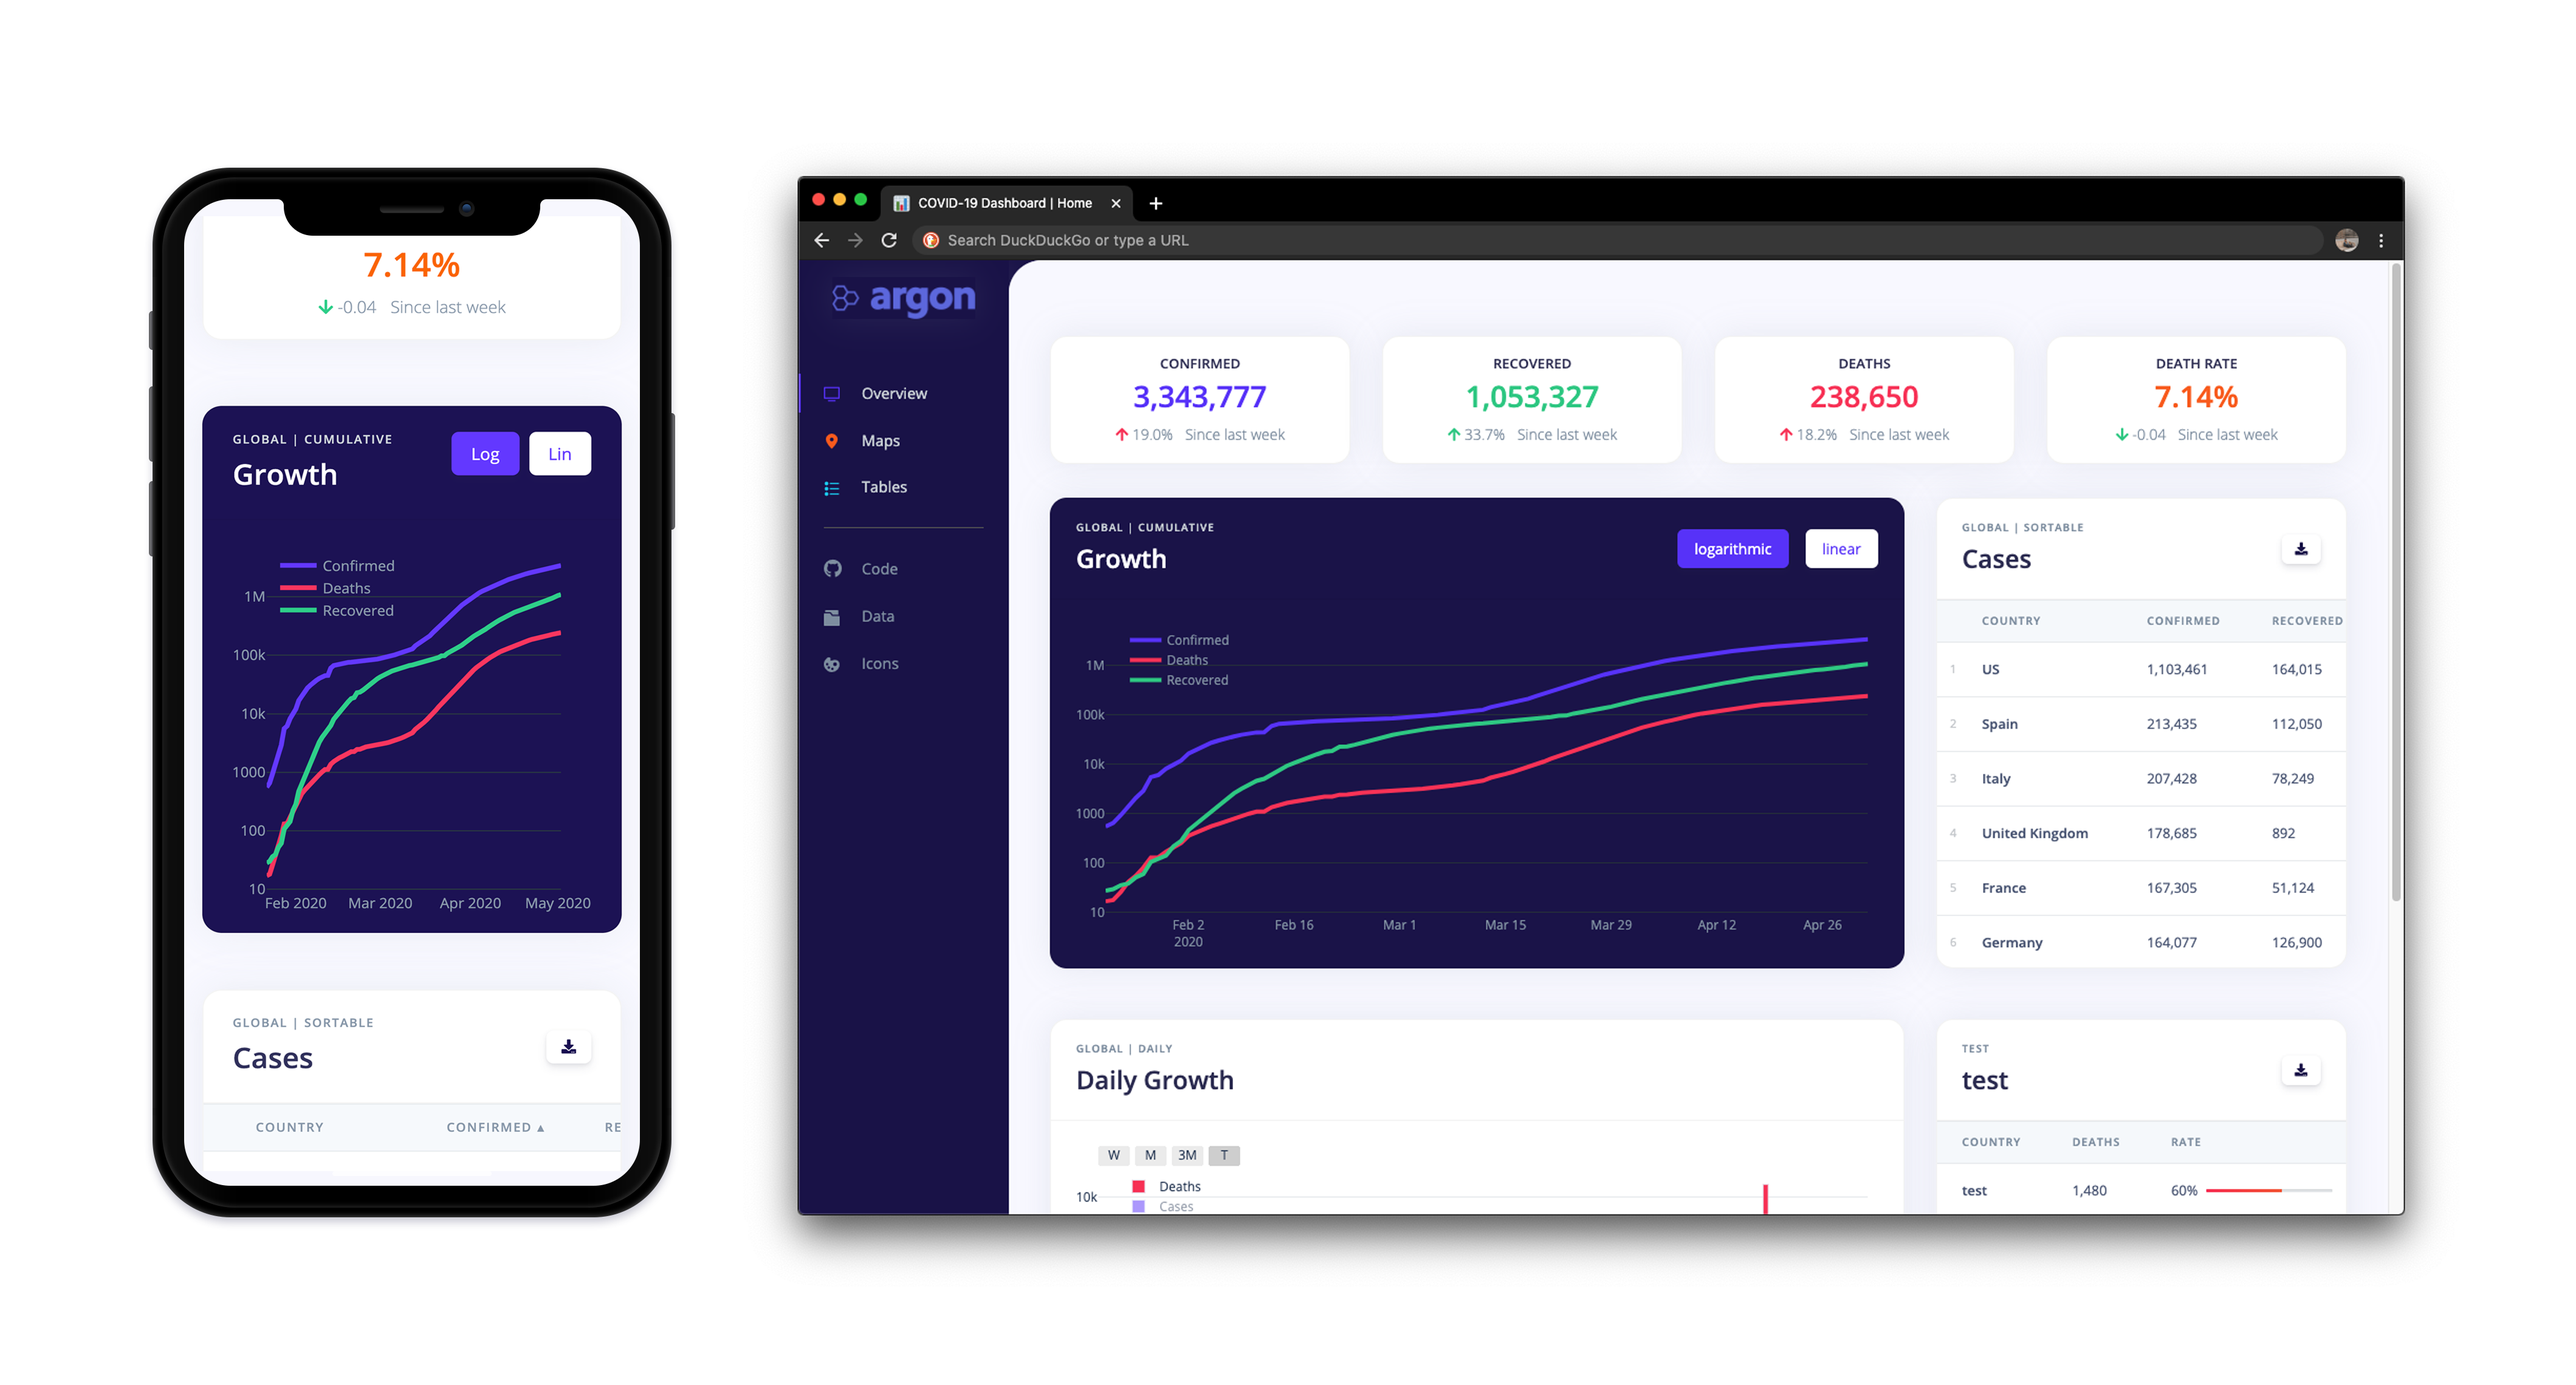
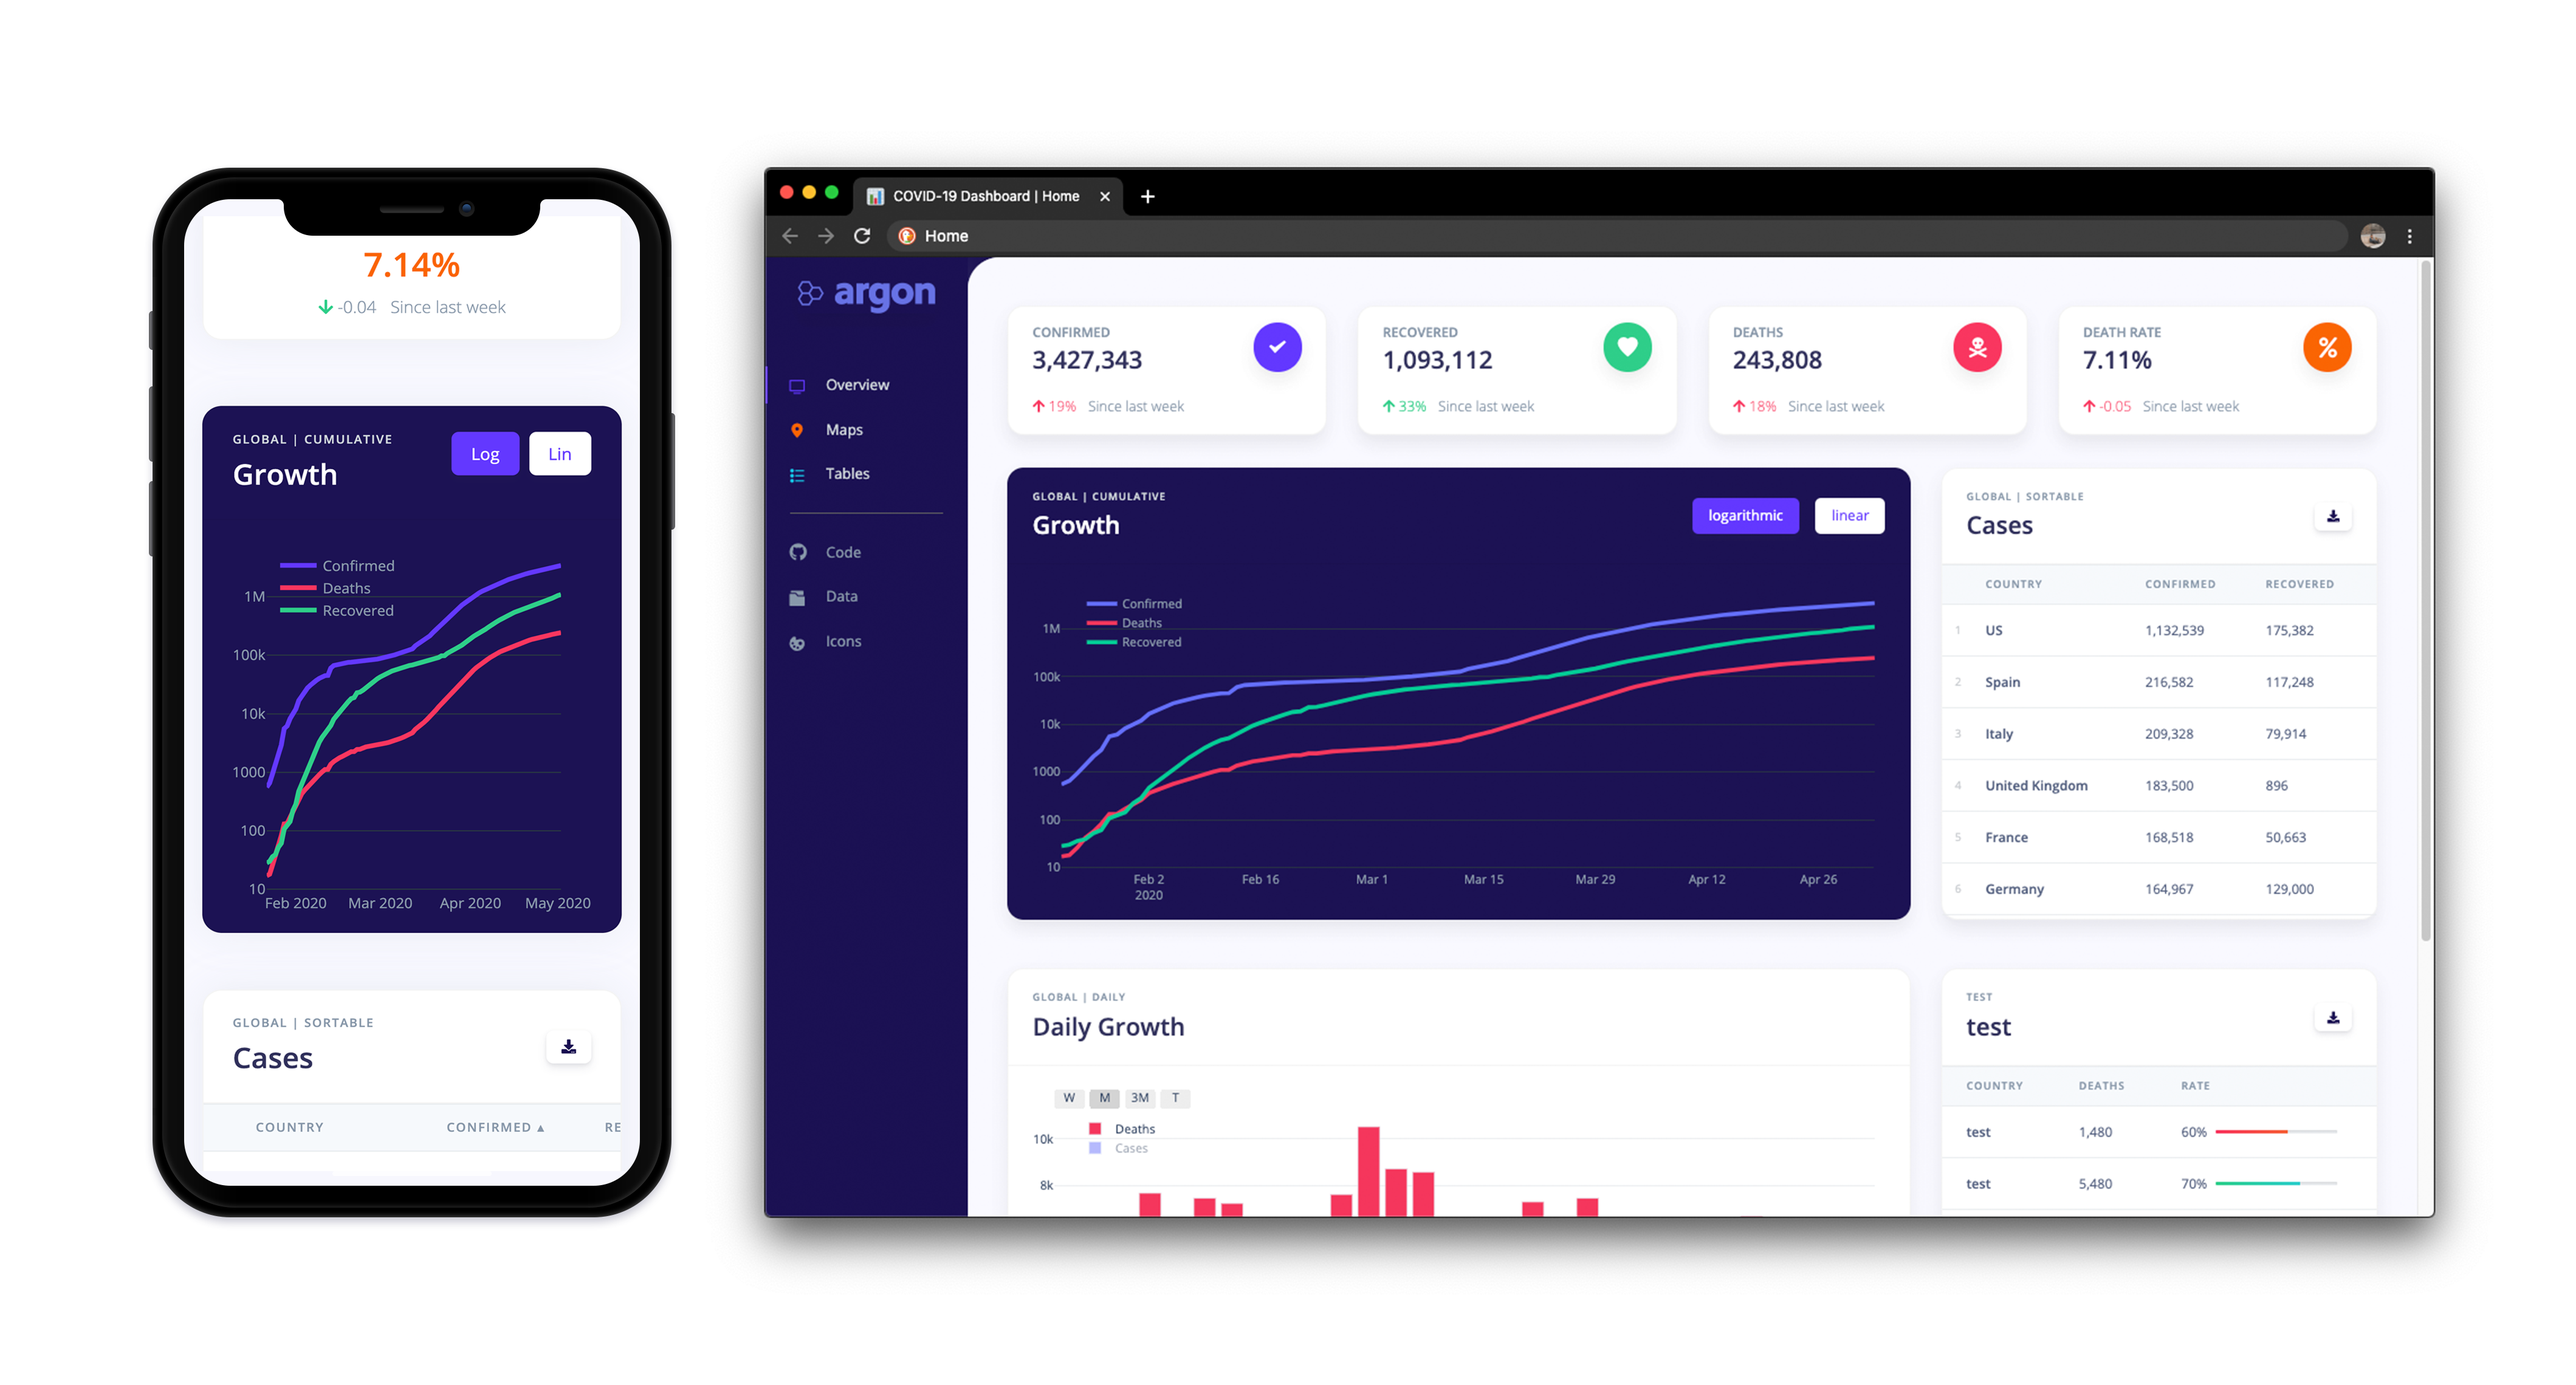
updated mockup image, modified trends numbers with Django filters

diff --git a/core/templates/includes/header.html b/core/templates/includes/header.html
@@ -21,7 +21,7 @@
                     </div>
                 </div>
                 <p class="mt-3 mb-0 text-muted text-sm">
-                    <span class="text-danger mr-2"><i class="fa fa-arrow-up"></i> {{ confirmed_trend }}%</span>
+                    <span class="text-danger mr-2"><i class="fa fa-arrow-up"></i> {{ confirmed_trend | floatformat:"0" }}%</span>
                     <span class="text-nowrap">Since last week</span>
                 </p>
                 </div>
@@ -42,7 +42,7 @@
                     </div>
                 </div>
                 <p class="mt-3 mb-0 text-muted text-sm">
-                    <span class="text-success mr-2"><i class="fas fa-arrow-up"></i> {{ recovered_trend }}%</span>
+                    <span class="text-success mr-2"><i class="fas fa-arrow-up"></i> {{ recovered_trend | floatformat:"0" }}%</span>
                     <span class="text-nowrap">Since last week</span>
                 </p>
                 </div>
@@ -63,7 +63,7 @@
                     </div>
                 </div>
                 <p class="mt-3 mb-0 text-muted text-sm">
-                    <span class="text-danger mr-2"><i class="fas fa-arrow-up"></i> {{ deaths_trend }}%</span>
+                    <span class="text-danger mr-2"><i class="fas fa-arrow-up"></i> {{ deaths_trend | floatformat:"0" }}%</span>
                     <span class="text-nowrap">Since last week</span>
                 </p>
                 </div>

diff --git a/processdata/plots.py b/processdata/plots.py
@@ -21,7 +21,7 @@ def total_growth():
 
     return plot_div
     
-    
+
 def daily_growth():
     dcases = getdata.daily_cases()[['date', 'World']]
     ddeaths = getdata.daily_deaths()[['date', 'World']]
@@ -45,4 +45,21 @@ def daily_growth():
     plot_div = plot(fig, output_type='div', config={'displayModeBar': False})
     
     return plot_div
+    
+
+
+# def sparklines():
+#     df = getdata.realtime_growth()
+#     layout = Layout(paper_bgcolor='rgba(0,0,0,0)',  plot_bgcolor='rgba(0,0,0,0)', xaxis=dict(showgrid=False, visible=False), yaxis=dict(showgrid=False, visible=False, type='log'), margin=dict(t=0, l=15, r=10, b=0),  height=310)
+
+#     confirmed = go.Figure(go.Scatter(x=df.index, y=df.Confirmed, mode='lines', line=dict(width=4), fill='toself', fillcolor='rgba(98,54,255,.1)'), layout=layout)
+#     recovered = go.Figure(go.Scatter(x=df.index, y=df.Recovered, mode='lines', line=dict(width=4), fill='toself', marker_color='rgb(93,201,154)', fillcolor='rgba(93,201,154,.1)'), layout=layout)
+#     deaths = go.Figure(go.Scatter(x=df.index, y=df.Deaths, mode='lines', line=dict(width=4), fill='toself', marker_color='#f5365c', fillcolor='rgba(226,72,97,.1)'), layout=layout)
+    
+    
+#     confirmed.write_image('/static/img/confirmed_sparkline.svg')
+#     # fig.add_traces([confirmed, deaths, recovered])
+#     plot_div = plot(fig, output_type='div', config={'displayModeBar': False})
+
+#     return plot_div
     

diff --git a/processdata/getdata.py b/processdata/getdata.py
@@ -1,6 +1,5 @@
 # ©Brian Ruiz, @brianruizy
 # Created: 03-15-2020
-import numpy as np
 import pandas as pd
 import datetime
 
